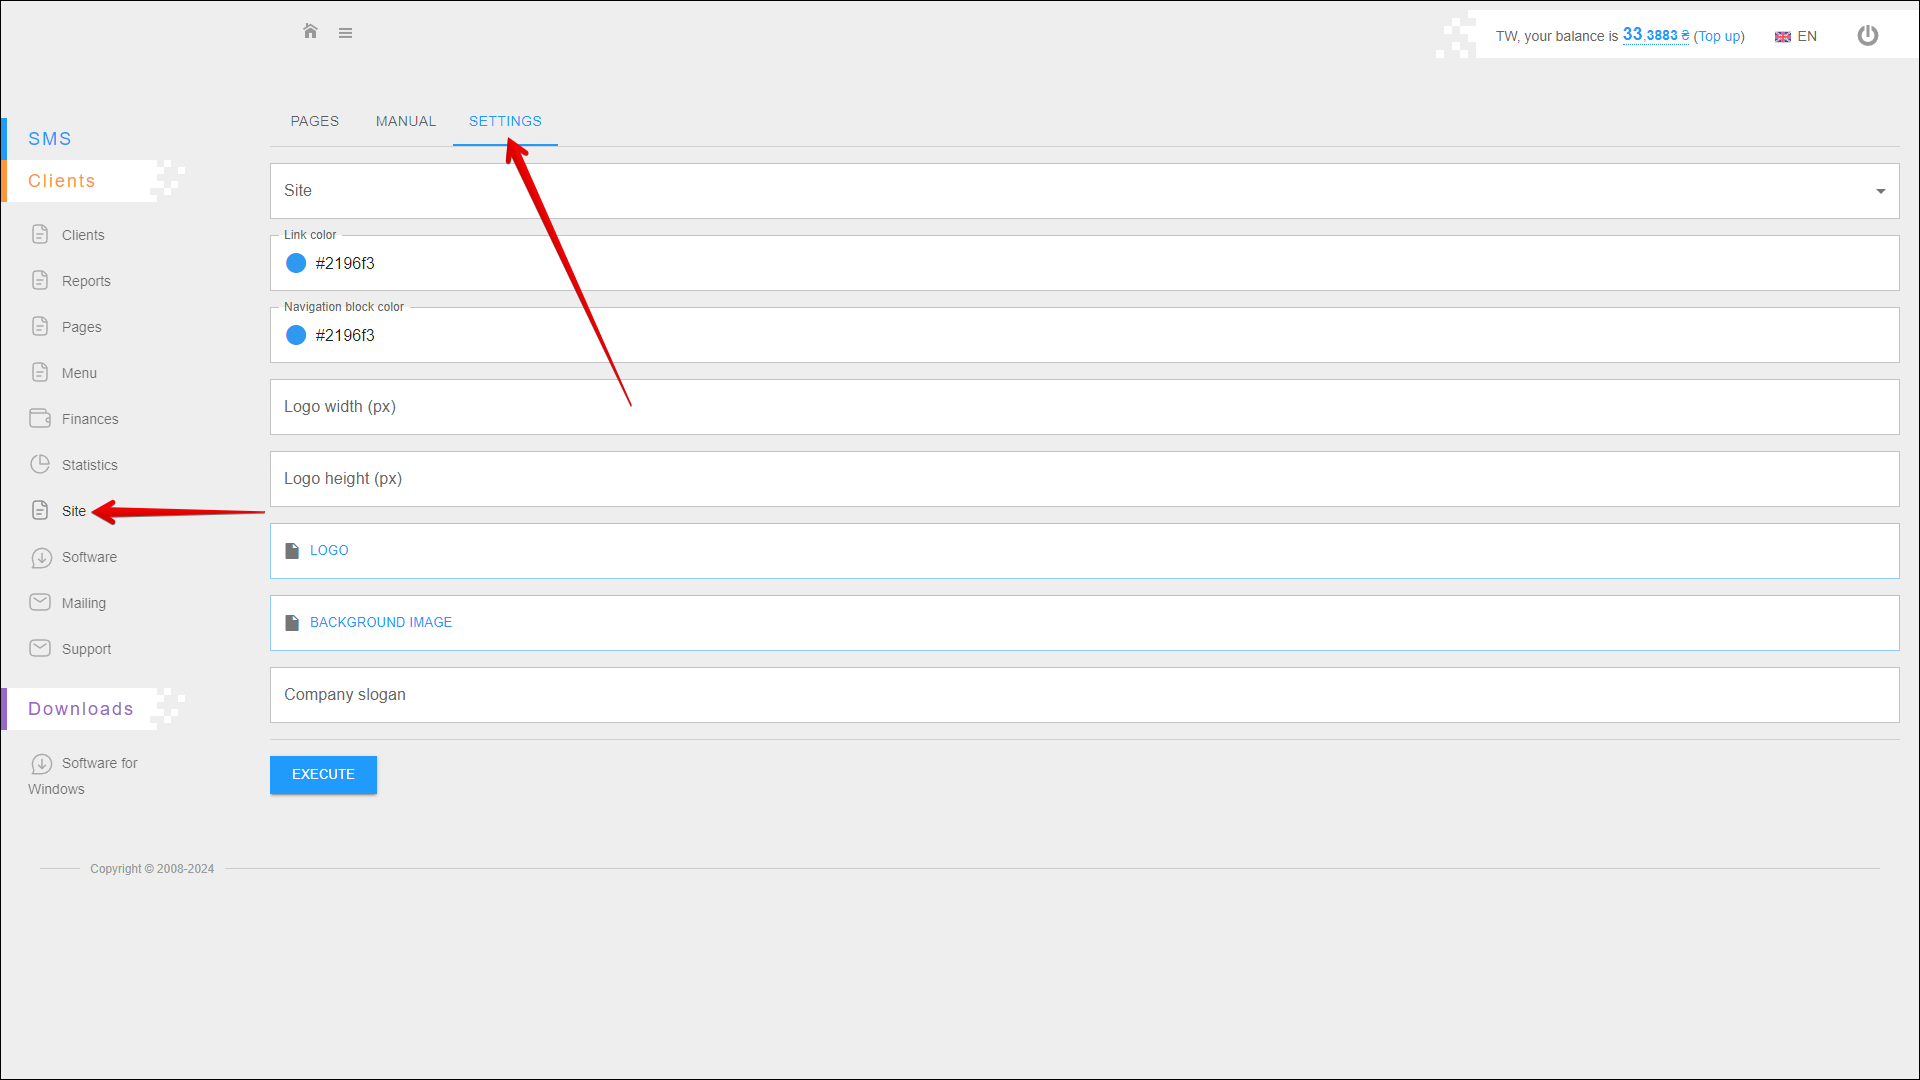
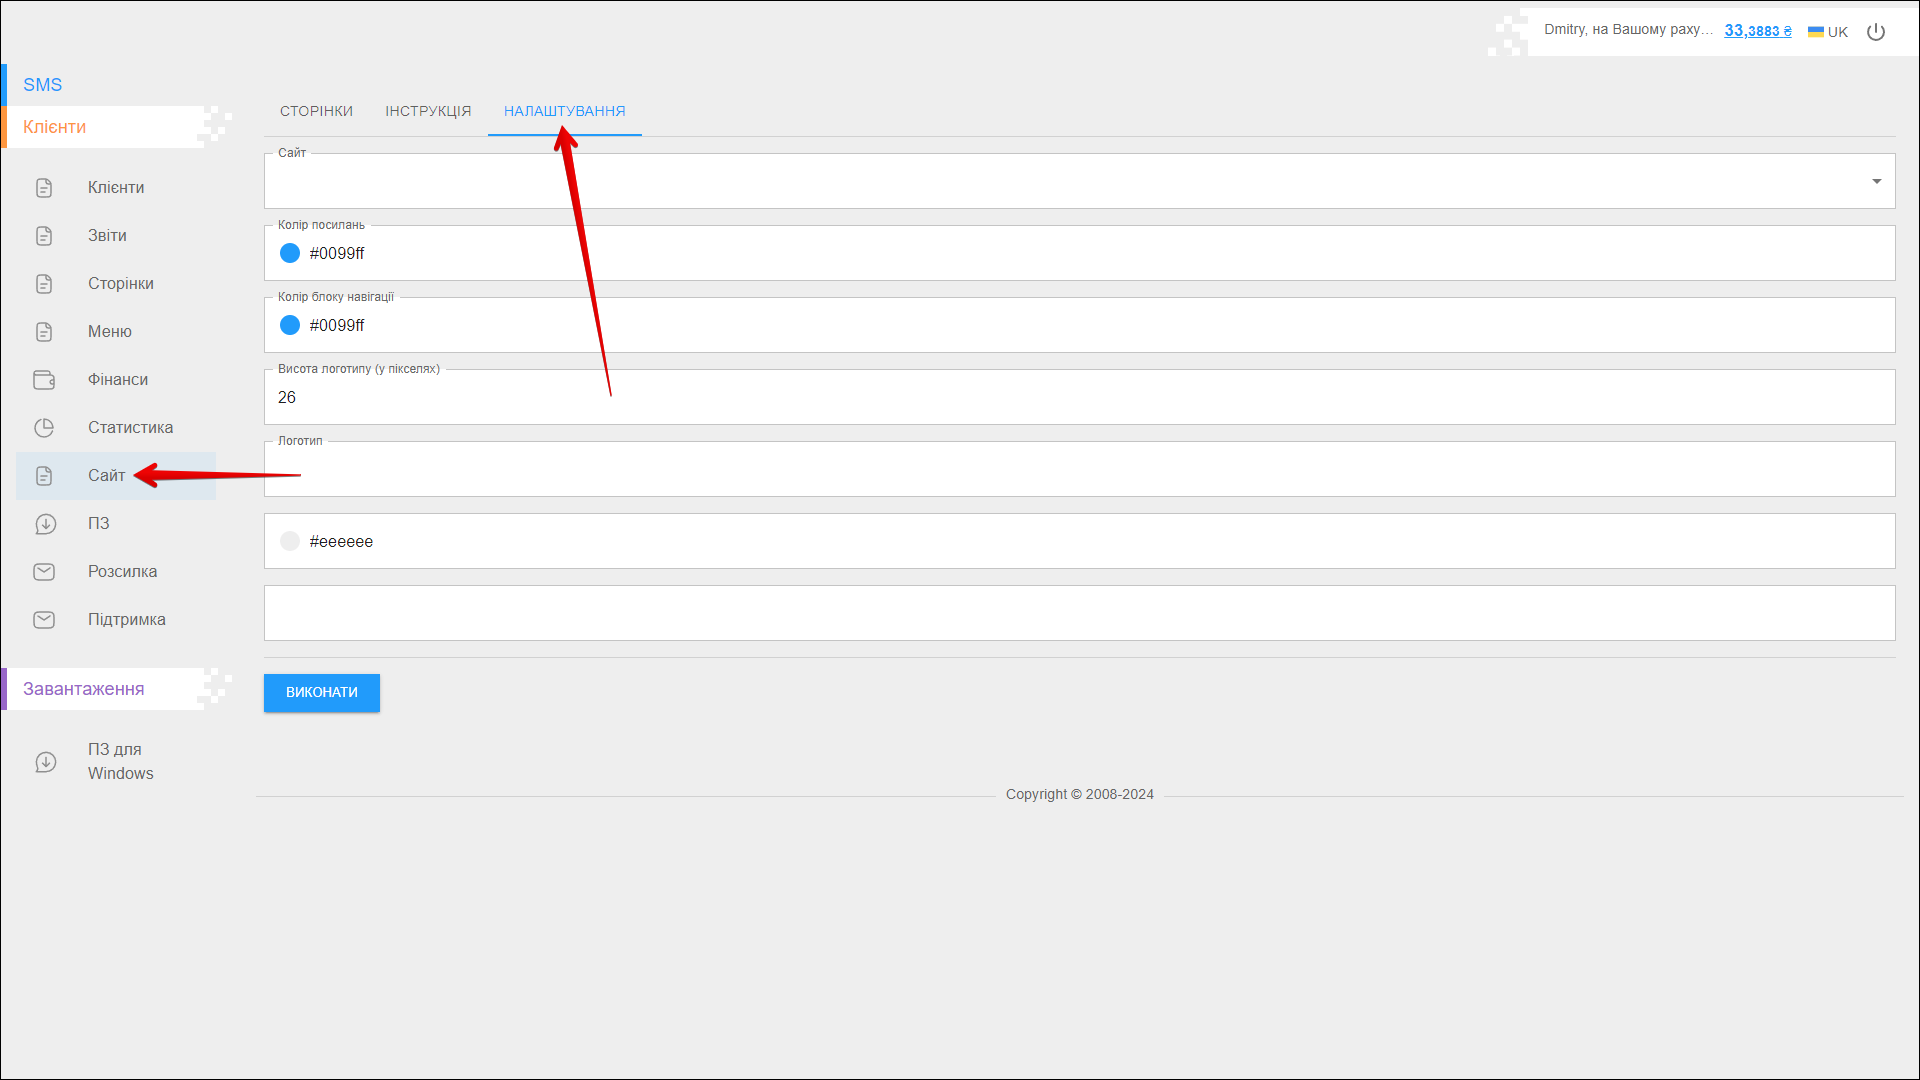
Клієнти-Сайт-Налаштування

diff --git a/i18n/uk/docusaurus-plugin-content-docs/current/instruction/clients/site/settings.md b/i18n/uk/docusaurus-plugin-content-docs/current/instruction/clients/site/settings.md
@@ -3,3 +3,29 @@ id: settings
 title: Налаштування
 slug: /settings
 ---
+
+На цій вкладці ви можете вказати налаштування для сайту.
+
+Щоб відкрити цю вкладку, виберіть **Клієнти** → **Сайт** у боковому меню та оберіть вкладку **НАЛАШТУВАННЯ**.
+
+![image1](/img/uk/clients_site_settings/image1.png)
+
+## Доступні налаштування
+
+Доступні наступні налаштування сторінки:
+
+![image2](/img/uk/clients_site_settings/image2.png)
+
+|  №  | Налаштування |
+| :-: | ------------ |
+| 1 | Виберіть зі списку **Сайт**, налаштування якого ви хочете змінити  |
+| 2 | Вкажіть **Колір посилань** |
+| 3 | Вкажіть **Колір блоку навігації** |
+| 4 | Вкажіть **Висоту логотипа** (у пікселях) |
+| 5 | Вкажіть посилання на **Логотип** |
+| 6 |  |
+| 7 |  |
+
+Натисніть **ВИКОНАТИ**, щоб зберегти налаштування.
+
+![image3](/img/uk/clients_site_settings/image3.png)
